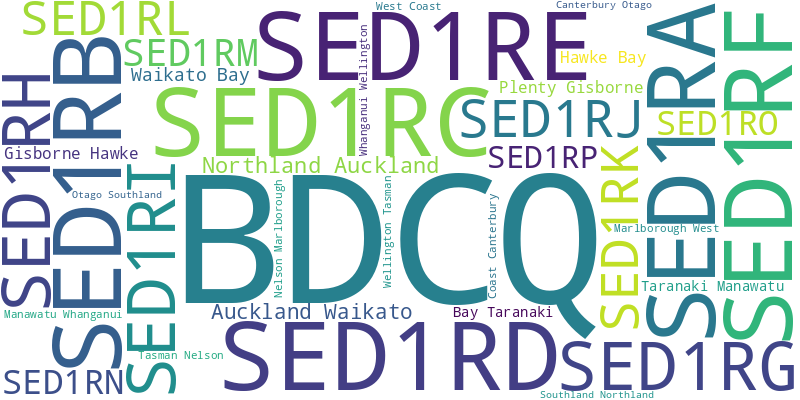
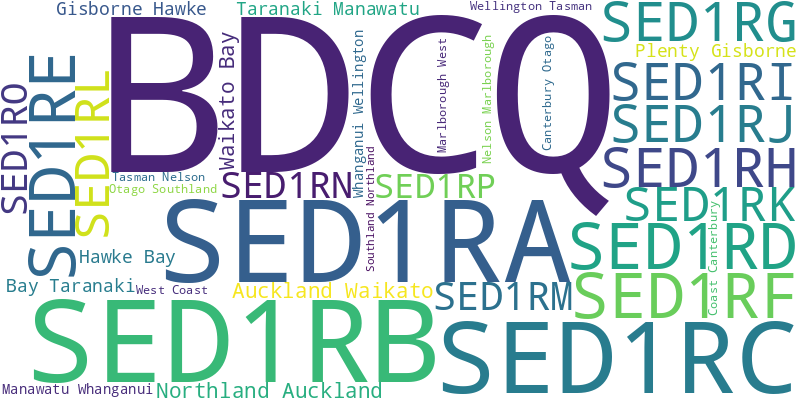
json img fixed

diff --git a/fileuploader/templates/fileuploader/file_list.html b/fileuploader/templates/fileuploader/file_list.html
@@ -35,6 +35,24 @@
     </ul>
     {% else %}
     <p>No word clouds available.</p>
+    {% endif %} {% if word_clouds_json %}
+    <ul>
+      {% for file, image_path in word_clouds_json %}
+      <li>
+        <a href="{% url 'file_detail' file.pk %}">
+          <img
+            width="100"
+            height="100"
+            src="{{ image_path }}"
+            alt="Word Cloud for {{ file.file.name }}"
+          />
+        </a>
+        <a href="{% url 'file_detail' file.pk %}">{{ file.file.name }} </a>
+      </li>
+      {% endfor %}
+    </ul>
+    {% else %}
+    <p>No word clouds json available.</p>
     {% endif %}
   </body>
 </html>

diff --git a/fileuploader/views.py b/fileuploader/views.py
@@ -142,15 +142,18 @@ class FileListView(View):
     def get(self, request) -> HttpResponse:
         files = UploadedFile.objects.all()
         word_clouds = []
+        word_clouds_json = []
 
         for file in files:
             data = None
+            data2 = None
             if file.file.name.endswith('.json'):
-                ...
+                # ...
                 # Read JSON file
-                # with file.file.open() as f:
-                    # data = json.load(f)
-                    # data = pd.DataFrame(data)  # Convert JSON to DataFrame
+                with file.file.open() as f:
+                    json_data = json.load(f)
+                    data2 = pd.json_normalize(json_data)
+                    print(data2)
             elif file.file.name.endswith('.csv'):
                 # Read CSV file
                 with file.file.open() as f:
@@ -161,7 +164,12 @@ class FileListView(View):
                 if image_path:
                     word_clouds.append((file, image_path))
 
-        return render(request, self.template_name, {'files': files, 'word_clouds': word_clouds})
+            if data2 is not None:
+                image_path = generate_word_cloud_from_data(data2, file)  # Pass 'file' object as an argument
+                if image_path:
+                    word_clouds_json.append((file, image_path))
+
+        return render(request, self.template_name, {'files': files, 'word_clouds': word_clouds, 'word_clouds_json': word_clouds_json})
 
 class FileDetailView(View):
     template_name = 'fileuploader/file_detail.html'

diff --git a/fileuploader/utils.py b/fileuploader/utils.py
@@ -87,7 +87,11 @@ def generate_word_cloud_from_data(data, file):
     content = ""
     for column_name in data.columns:
         if data[column_name].dtype == 'object':
-            content += ' '.join(data[column_name].dropna()) + ' '
+            column_values = data[column_name].dropna()
+            if all(isinstance(value, str) for value in column_values):
+                content += ' '.join(column_values) + ' '
+            elif all(isinstance(value, list) for value in column_values):
+                content += ' '.join([item for sublist in column_values for item in sublist]) + ' '
 
     if content.strip():
         wordcloud = WordCloud(width=800, height=400, background_color='white').generate(content)
